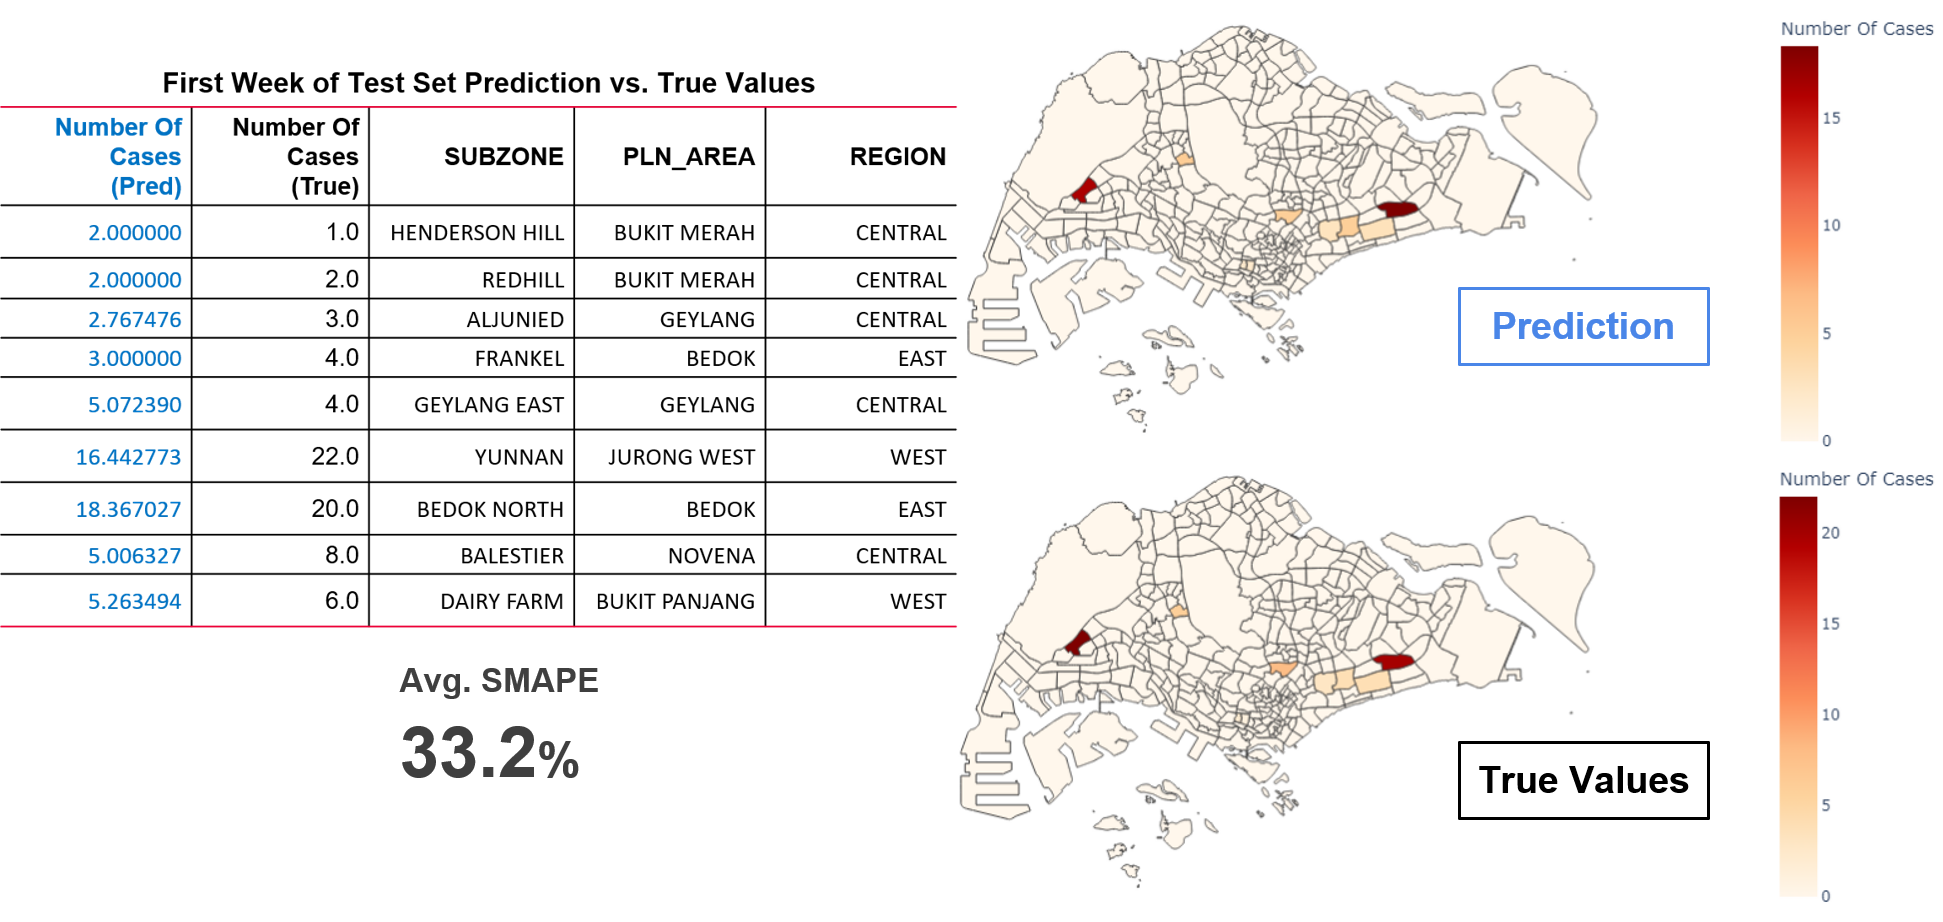
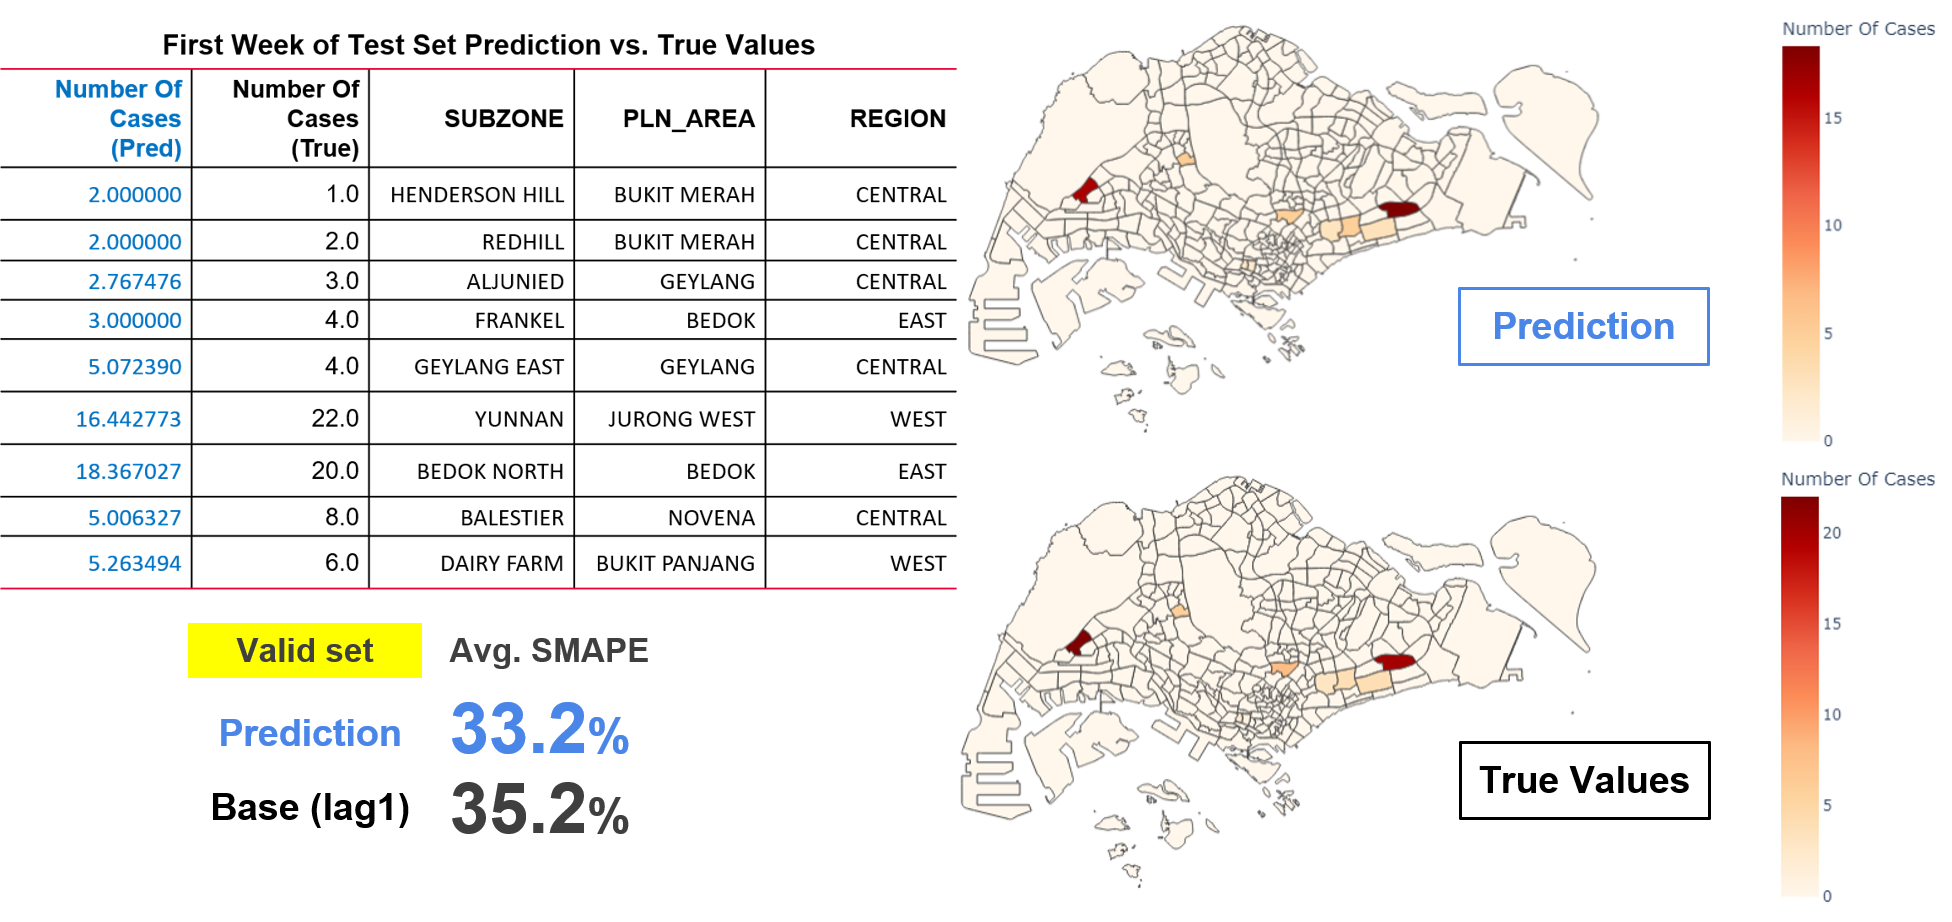
update README

diff --git a/README.md b/README.md
@@ -39,13 +39,13 @@ To investigate the potential correlation between weather patterns and dengue cas
 
 ### Modeling
 
-The forecasting algorithm used processed data on dengue clusters with subzones during the geospatial EDA phase. LightGBM regressor was selected as the prediction model, and the data were split into training (80%) and testing (20%) sets for out-of-sample validation based on the time period. Within the training set, 30% of the data was further partitioned as the validation set during training. The Symmetric Mean Absolute Percentage Error (SMAPE) was calculated and compared for the prediction and baseline (lag 1) using the validation set during training.
+The forecasting algorithm used processed data on dengue clusters with subzones during the geospatial EDA phase. LightGBM regressor was selected as the prediction model, and the data were split into training (80%) and testing (20%) sets for out-of-sample validation based on the time period. Within the training set, 30% of the data was further partitioned as the validation set during training. The Symmetric Mean Absolute Percentage Error (SMAPE) was calculated and compared for the prediction and baseline (lag1) using the validation set during training.
 
 The model will be used to predict on a weekly basis: starting with the first week of the test set, the model predicts the number of dengue cases for each subzone, then when it came to the second week, the true value of the past week should be already known and it will be used to predict the number of cases for the second week, and so on until the entire test set has been predicted. To evaluate the accuracy of the model, we selected the first and second weeks of test set and compared the predicted values to the true values for geographic analysis.
 
 <img src="images/Geospatial Prediction Methods.png" width="600"/>
 
-The training results demonstrated an average SMAPE of 33.2% for the first week prediction, which was lower than the baseline. Upon comparing the geographic distribution of our predictions with the true values, we noticed that our predictions identified the same hotspot zones as the true values. The second week prediction had similar results, indicating the stability of the model. However, based on the SMAPE of the validation set during training, we observed that certain weeks had a significantly large prediction error. This indicates that the model with autoregression alone may not be sufficient for long-term predictions. Additional data with more features that can better describe the target variable are required to improve the model's accuracy and reduce its variance.
+The training results demonstrated an average SMAPE of 33.2% for the first week prediction, which was lower than the baseline (lag1) 35.2%. Upon comparing the geographic distribution of our predictions with the true values, we noticed that our predictions identified the same hotspot zones as the true values. The second week prediction had similar results, indicating the stability of the model. However, based on the SMAPE of the validation set (45 weeks) during training, we observed that certain weeks had a significantly large prediction error (up to 74%). This indicates that the model with autoregression alone may not be sufficient for long-term predictions. Additional data with more features that can better describe the target variable are required to improve the model's accuracy and reduce its variance.
 
 <img src="images/Geospatial Prediction Results.png" width="1000"/>
 
